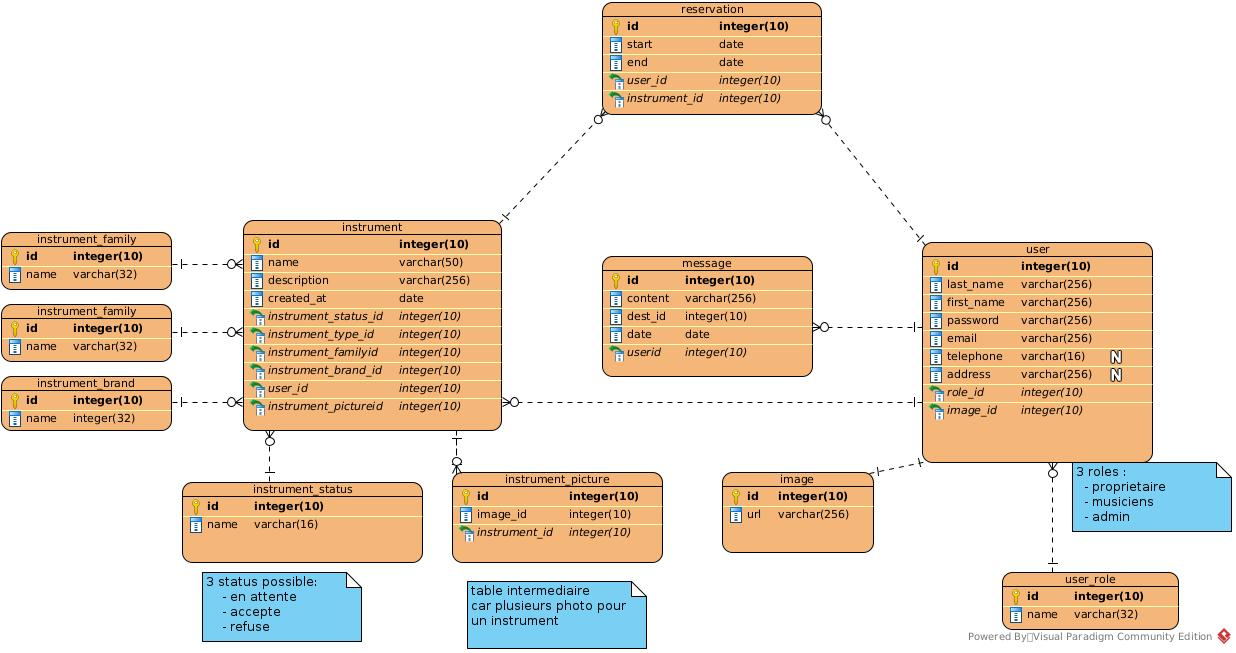
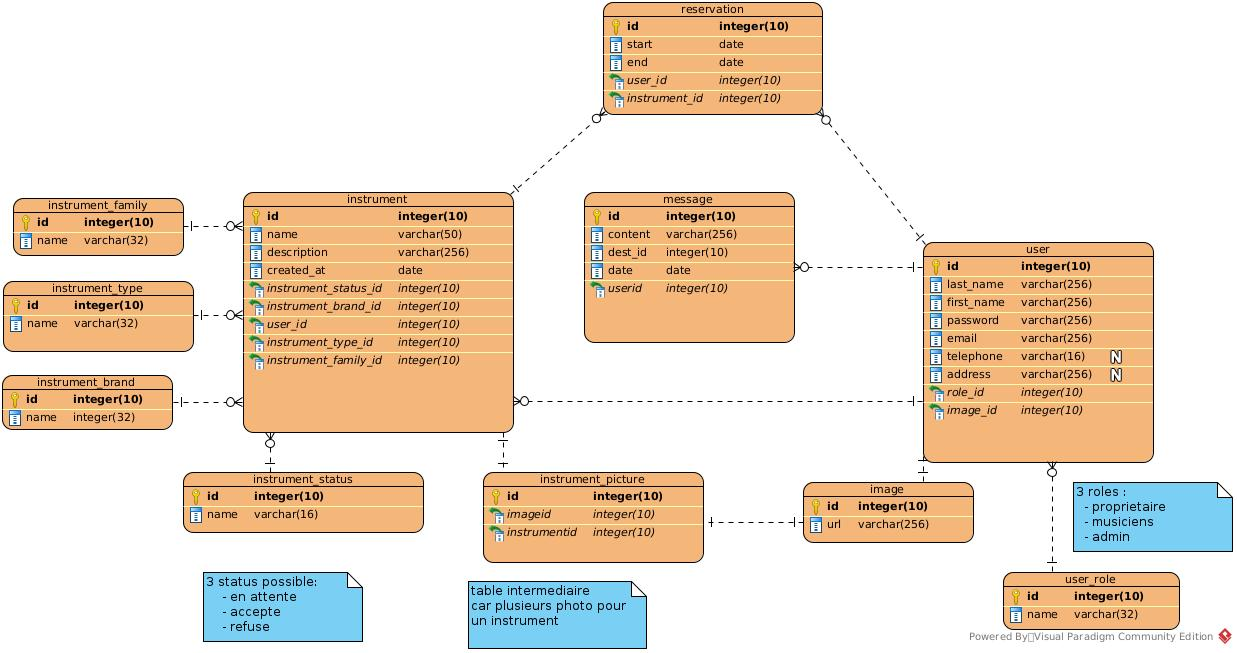
ajout

diff --git a/play-my-house/2-4-modelisation-database.md b/play-my-house/2-4-modelisation-database.md
@@ -22,3 +22,57 @@ La modelisation sera realisée sur visual paradigm<br>
 <br>
 
 <img src="./database/play-my-house.jpg" class="img-center">
+<br>
+
+## Description des tables importantes
+
+L'abreviation **FK** designe un champs clef etrangere
+
+### <u>reservation</u>
+
+cette table represente les informations d'un creneaux de reservation et contient les champs suivant:
+- id: int (index)
+- date de debut: date
+- date de fin: date
+- id du musicien prenant le creneaux: int (FK)
+- id de l'instrument: int (FK)
+
+
+### <u>instrument</u>
+
+cette table represente un instrument contient les champs suivant:
+- id: int (index)
+- nom: varchar
+- description: varchar
+- date de creation par le proprietaire: date
+- status actuel: int (FK)
+- le type: int (FK)
+- la famille: int (FK)
+- la marque: int (FK)
+- l'id du proprietaire: int (FK)
+
+### <u>utilisateur</u>
+
+cette table represente un utilisateur et contient les champs suivants:
+- id: int (index)
+- nom: varchar
+- prenom: varchar
+- mot de passe: varchar 
+- email: varchar
+- telephone: varchar
+- adresse: varchar
+- l'id role sur l'app: int (FK)
+- l'id de l'image de profil: int (FK)
+
+
+### message
+
+cette table represente un message et contient les champs suivants:
+- id: int (index)
+- le corps du message: varchar
+- la date d'envoie: date
+- l'id du destinataire: int (FK)
+- l'id de l'expediteur: int (FK)
+
+
+  

diff --git a/play-my-house/5-diagrame-uml.md b/play-my-house/5-diagrame-uml.md
@@ -2,10 +2,14 @@
 
 [<span class="icon-big">&#8592;</span>](./2-analyse.md)
 
+Le diagramme UML est utilise pour representer les differentes classes et leurs attributs ( eventuellement les methodes).<br>
+Ainsi que les relations d'heritage.<br>
+On l'utlise pour decouper le programme en differentes classes / fonctionnalitees<br><br> 
+
 
 ```mermaid
     ---
-title: play my house app diagramme de classe 
+title: play my house app UML
 ---
 classDiagram
     User "1" <--> "0..*" Instrument
